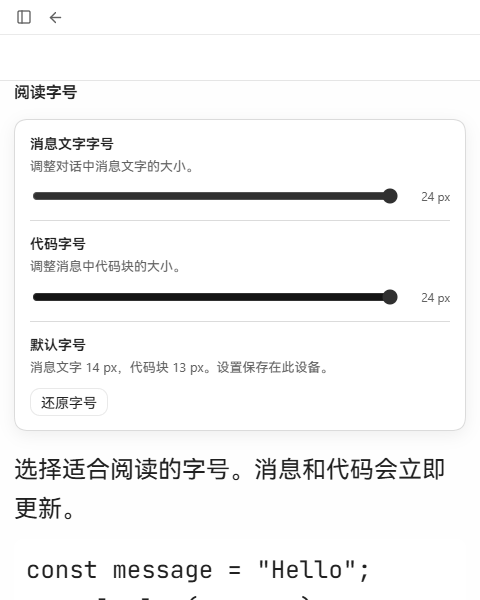
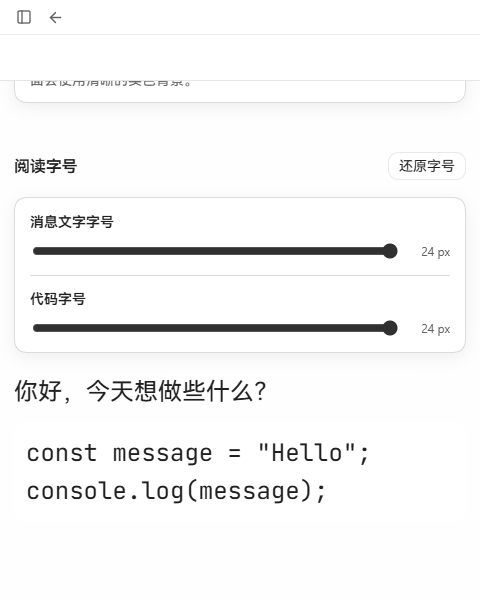
docs: refresh reading font size settings screenshots

diff --git a/docs/acceptance/message-code-font-size-20261022/README.md b/docs/acceptance/message-code-font-size-20261022/README.md
@@ -1,6 +1,6 @@
 # Message and code reading sizes
 
-Captured on Windows Chrome using production frontend bundles and the same saved answer from the production Go API. The baseline bundle was built from `fc0935d6fc03ca7abccbd148ce52d26c2bc154f8`; the candidate uses this change. The local `workbenchjourney` provider completed a normal turn through `root_lifecycle.v1`, and the normal backend persisted and projected the answer. No database edits, response interception, or DOM content replacement were used.
+The original conversation and baseline screenshots were captured on Windows Chrome using production frontend bundles and the same saved answer from the production Go API. The baseline bundle was built from `fc0935d6fc03ca7abccbd148ce52d26c2bc154f8`; the original image set is recorded in `8a4221c850158d8d460122def35f402c8862a50d`. The local `workbenchjourney` provider completed a normal turn through `root_lifecycle.v1`, and the normal backend persisted and projected the answer. The thread and run below identify those conversation captures.
 
 - Thread: `thread-run-20261021210809-59fae05150ec`
 - Run: `run-20261021210809-59fae05150ec`
@@ -23,6 +23,18 @@ The message setting changes user and assistant message text, including message t
 | Unit checks | 11 tests passed across typography preferences, typography settings, and existing appearance tests. Includes bounds, malformed storage, both locales, initialization, reset, remount, and failed persistence. |
 | Production build | TypeScript check and Vite build passed. |
 | OCR delegate review | 17 total files; all 6 selected source files reviewed (100% coverage), no remaining findings. The 11 tool exclusions were 2 tests (`default_path`), this README (`unsupported_ext`), and 8 screenshots (`binary`); tests, documentation, and screenshots were checked separately. |
+
+## Settings screenshot refresh — 2026-10-23
+
+`after-reopened-desktop.png` and `after-max-settings-narrow.png` were recaptured from `22d61cf0cac9bfbed184a809bd98d534ebace246`. They show the simplified reading controls: Reset font sizes is beside the heading, the explanatory rows are removed, and the preview uses the current greeting. The current production Vite bundle was served by the production Go API through the unmodified `workbenchjourney` harness, using a disposable database and an isolated persistent Chrome profile. Connection, slider changes, and reset used the application UI.
+
+| Action | Observed result |
+| --- | --- |
+| Set 20/18 px with the keyboard, close Chrome, reopen the same profile, and reconnect | The 1280 × 900 Appearance page retains 20/18 px; the preview computed sizes are 20/18 px. |
+| Set both sliders to their maximum with the keyboard at 480 × 600 | Both controls and preview computed sizes are 24 px; document width is 480 px and the heading-row reset button remains inside the viewport. |
+| Click the heading-row Reset font sizes button | Both sliders return to 14/13 px and the reset button becomes disabled. |
+
+The baseline images and saved-answer screenshots retain the original captures above.
 
 ## Screenshots
 
